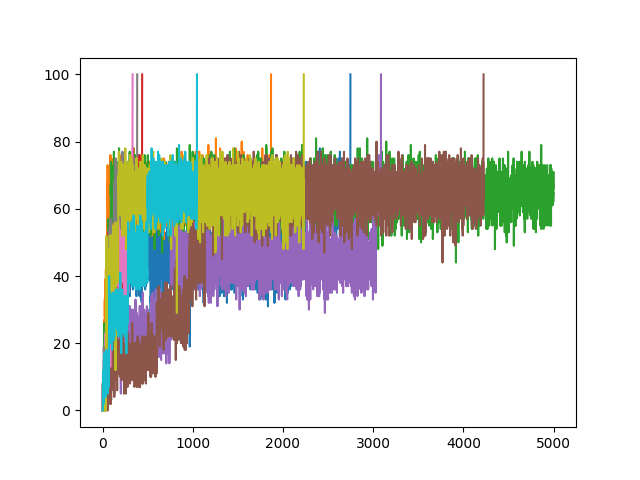
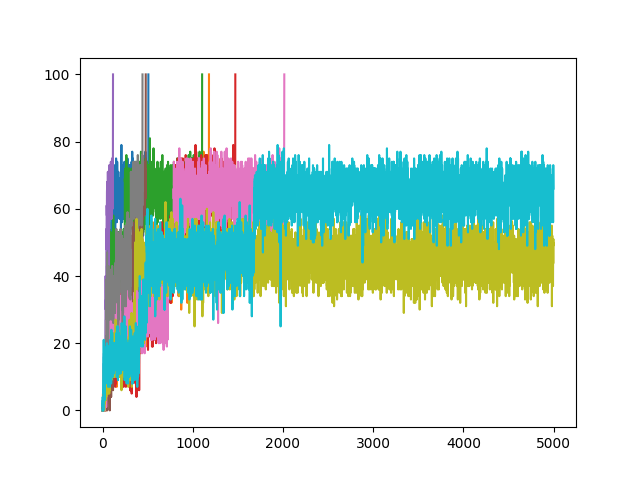
added readme

Changed region(s): [[0.1562, 0.1562, 0.875, 0.875]]

diff --git a/Copy-v0/Agent.py b/Copy-v0/Agent.py
@@ -21,7 +21,7 @@ class Agent:
 	A = []
 	pi = {}
 	alpha = 0.5
-	gamma = 0.9
+	gamma = 1
 	actions = [(x,y,z)
 				for x in range(2)
 				for y in range(2)

diff --git a/Copy-v0/README.md b/Copy-v0/README.md
@@ -1,0 +1,9 @@
+Solution to the Copy-v0 environment with a Monte Carlo 1st-visit algorithm.
+My first attempt at this was with a 1 step Q-learning agent, but it failed to learn the problem within a reasonable amount of time.
+
+I considered a "success" to be when the policy outputted by the agent would lead to 100 tapes in a row being copied perfectly.
+Each episode, the optimal policy is extracted from the agent and tested against 100 episodes of the environment. At 100% accuracy the experiment ends and the problem is solved.
+The agent's solution time varies from 50-2000 episodes to solve, depending on the environment seed.
+
+The agent is based off the one described in Sutton and Barto's textbook, [Reinforcement Learning: An Introduction](http://incompleteideas.net/book/the-book-2nd.html) and the rlglue software and design patterns are from Brian Tanner and Adam White's [RL-Glue project](https://sites.google.com/a/rl-community.org/rl-glue/Home?authuser=0).
+
